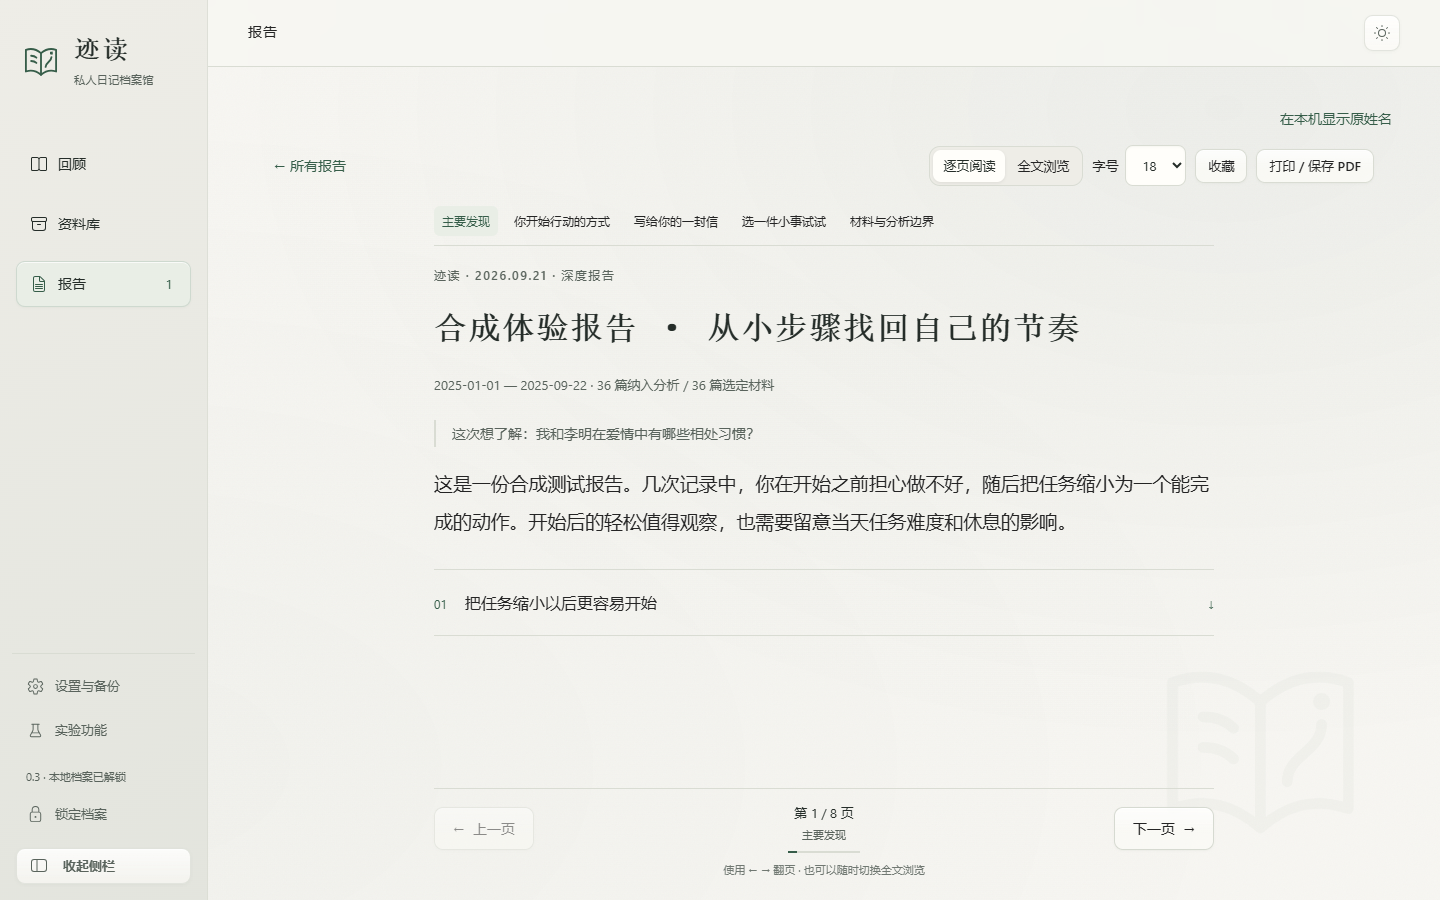
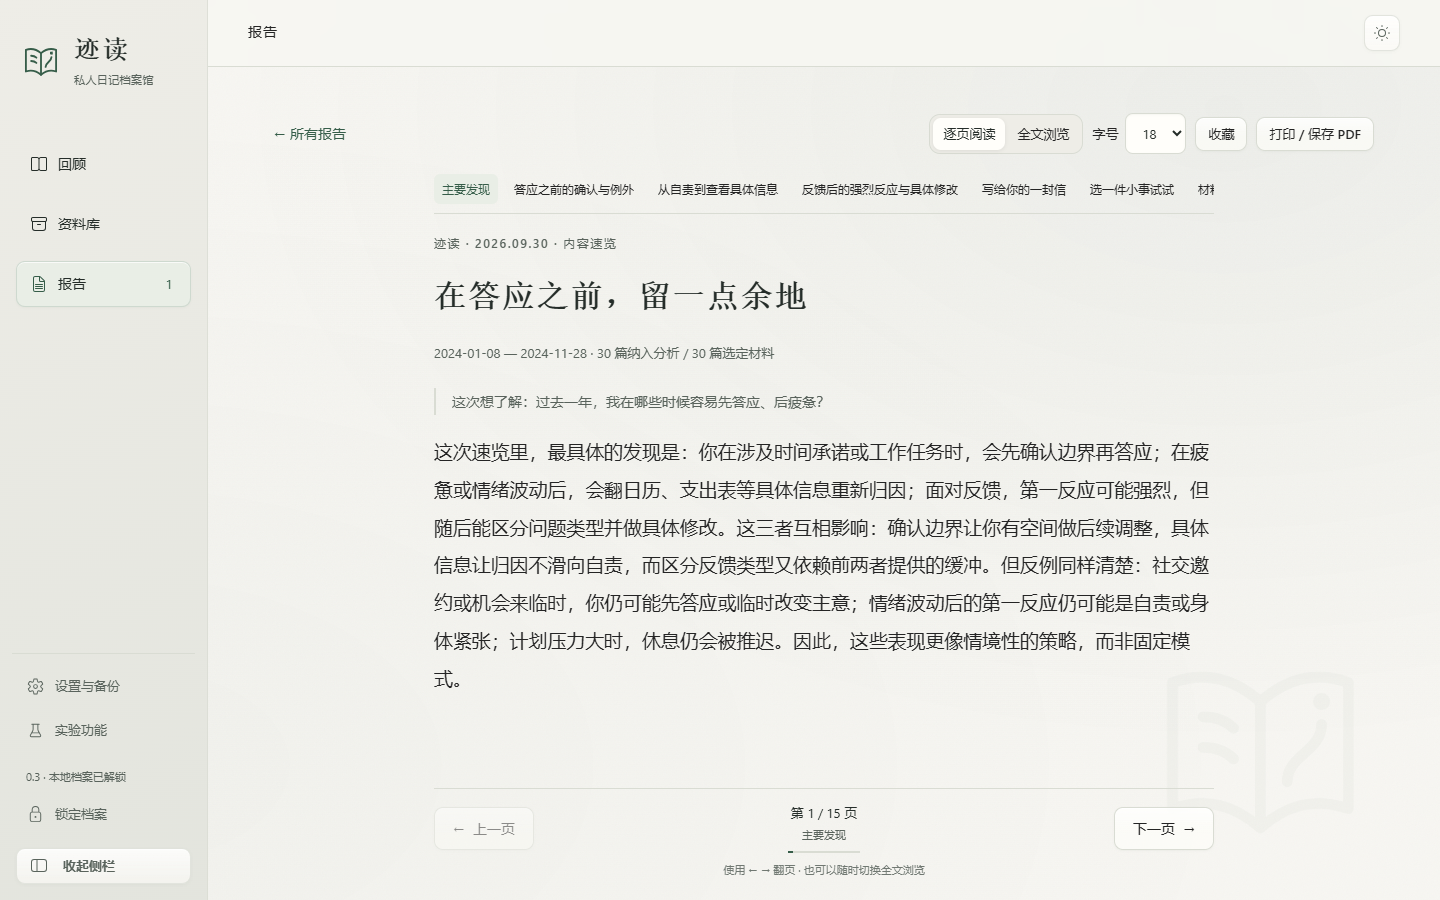
Refine typography and replace demo report preview

diff --git a/site.css b/site.css
@@ -12,6 +12,7 @@
   --green: #315c47;
   --green-dark: #18392d;
   --content: 1160px;
+  --display-font: "STSong", "Songti SC", "SimSun", serif;
 }
 
 * { box-sizing: border-box; }
@@ -44,7 +45,7 @@ h1, h2, h3 { text-wrap: balance; }
 .hero-copy { position: relative; z-index: 1; text-align: center; }
 .eyebrow, .section-index { color: var(--green); font-size: 12px; font-weight: 680; letter-spacing: .12em; }
 .eyebrow { margin-bottom: 21px; }
-.hero h1 { margin-bottom: 24px; font-size: clamp(60px, 7vw, 106px); font-weight: 680; line-height: 1.13; letter-spacing: -.065em; }
+.hero h1 { margin-bottom: 25px; font-family: var(--display-font); font-size: clamp(60px, 6.7vw, 98px); font-weight: 500; line-height: 1.27; letter-spacing: -.022em; }
 .hero h1 span { color: var(--green); }
 .hero-summary { max-width: 32ch; margin: 0 auto 29px; color: var(--muted); font-size: clamp(17px, 1.55vw, 21px); line-height: 1.7; text-wrap: pretty; }
 .hero-actions, .download-actions { display: flex; flex-wrap: wrap; align-items: center; gap: 22px; }
@@ -72,11 +73,12 @@ h1, h2, h3 { text-wrap: balance; }
 .statement-layout { display: grid; grid-template-columns: .75fr 1.25fr; gap: 70px; }
 .section-index { margin-bottom: 24px; }
 .statement-layout .section-index { padding-top: 15px; }
-.statement-layout h2, .journey-section h2, .preview-copy h2, .privacy-section h2, .availability-layout h2, .download-layout h2 { margin-bottom: 25px; font-size: clamp(38px, 4.5vw, 65px); font-weight: 660; line-height: 1.25; letter-spacing: -.054em; }
+.statement-layout h2, .journey-section h2, .preview-copy h2, .privacy-section h2, .availability-layout h2, .download-layout h2 { margin-bottom: 25px; font-family: var(--display-font); font-size: clamp(38px, 4.25vw, 60px); font-weight: 500; line-height: 1.35; letter-spacing: -.018em; }
+.journey-section h2, .preview-copy h2, .availability-layout h2 { font-family: "Segoe UI Variable", "Segoe UI", "PingFang SC", "Microsoft YaHei UI", sans-serif; font-weight: 650; line-height: 1.28; letter-spacing: -.045em; }
 .statement-layout p:last-child { max-width: 35ch; margin-bottom: 0; color: var(--muted); font-size: 19px; line-height: 1.85; }
 
 .journey-section { display: grid; grid-template-columns: 1fr 1fr; gap: 92px; padding-top: 132px; padding-bottom: 130px; }
-.journey-section h2 { max-width: 12ch; }
+.journey-section h2 { max-width: 22ch; }
 .journey-list { padding: 0; margin: 0; list-style: none; border-top: 1px solid var(--line); }
 .journey-list li { display: grid; grid-template-columns: 56px 1fr; gap: 12px; padding: 28px 0; border-bottom: 1px solid var(--line); }
 .journey-list li > span { padding-top: 5px; color: var(--green); font-size: 13px; font-variant-numeric: tabular-nums; }
@@ -123,7 +125,7 @@ h1, h2, h3 { text-wrap: balance; }
 .download-hash code { display: block; margin-top: 7px; color: #354c3d; font-family: ui-monospace, Consolas, monospace; font-size: 12px; }
 
 .faq-section { display: grid; grid-template-columns: .8fr 1.2fr; gap: 70px; padding-top: 95px; padding-bottom: 115px; }
-.faq-heading h2 { margin-bottom: 0; font-size: clamp(32px, 3.4vw, 46px); font-weight: 650; letter-spacing: -.045em; }
+.faq-heading h2 { margin-bottom: 0; font-size: clamp(32px, 3.4vw, 46px); font-weight: 650; line-height: 1.3; letter-spacing: -.04em; }
 .faq-list { border-top: 1px solid var(--line); }
 .faq-list details { border-bottom: 1px solid var(--line); }
 .faq-list summary { position: relative; padding: 19px 32px 19px 0; font-size: 16px; font-weight: 630; cursor: pointer; list-style: none; }
@@ -150,7 +152,7 @@ h1, h2, h3 { text-wrap: balance; }
   .mobile-menu nav a { padding: 10px 12px; font-size: 14px; text-decoration: none; }
   .mobile-menu nav a:hover { background: #eff3ed; }
   .hero { padding-top: 83px; }
-  .hero h1 { font-size: clamp(54px, 9vw, 78px); }
+  .hero h1 { font-size: clamp(54px, 8vw, 74px); }
   .statement-layout, .journey-section, .privacy-layout, .availability-layout, .faq-section { gap: 45px; }
   .preview-layout { grid-template-columns: 1fr; gap: 38px; }
   .preview-copy { max-width: 650px; }
@@ -161,7 +163,7 @@ h1, h2, h3 { text-wrap: balance; }
   .content-width, .nav-inner { width: min(100% - 36px, var(--content)); }
   .nav-inner { min-height: 58px; }
   .hero { padding-top: 76px; }
-  .hero h1 { font-size: clamp(46px, 12vw, 67px); line-height: 1.18; }
+  .hero h1 { font-size: clamp(46px, 11vw, 60px); line-height: 1.28; }
   .hero-summary { max-width: 29ch; font-size: 16px; }
   .hero-actions { gap: 15px; }
   .hero-availability { padding-inline: 12px; font-size: 12px; }

diff --git a/index.html b/index.html
@@ -54,9 +54,9 @@
         <figure class="hero-visual content-width">
           <div class="app-window app-window-main">
             <div class="window-bar" aria-hidden="true"><span class="window-app"><img src="./assets/jidu-logo.svg" width="16" height="16" alt="" /> 迹读</span><span class="window-controls">−　□　×</span></div>
-            <img src="./assets/windows-report.png" width="1440" height="900" fetchpriority="high" alt="迹读 Windows 桌面版报告阅读界面，展示合成材料生成的报告、章节目录和翻页操作" />
+            <img src="./assets/windows-report.png" width="1440" height="900" fetchpriority="high" alt="迹读 Windows 桌面版的示例报告，展示生活回顾、章节目录和翻页操作" />
           </div>
-          <figcaption>Windows 桌面版界面 · 内容使用合成材料演示，不含真实用户日记</figcaption>
+          <figcaption>Windows 桌面版 · 示例报告</figcaption>
         </figure>
       </section>
 
@@ -88,14 +88,14 @@
             <p class="section-index">03 / Windows 桌面版</p>
             <h2 id="preview-title">让阅读，<br />回到阅读本身。</h2>
             <p>在电脑上导入、分析和阅读。报告可以逐页查看，也能切换为全文浏览；重要判断附带原文线索，而不是只留下一个结论。</p>
-            <p class="preview-footnote">截图为合成档案演示。报告深度取决于实际材料。</p>
+            <p class="preview-footnote">每份回顾的主题与深度，取决于你提供的记录。</p>
           </div>
           <figure class="preview-visual">
             <div class="app-window app-window-secondary">
               <div class="window-bar" aria-hidden="true"><span class="window-app"><img src="./assets/jidu-logo.svg" width="16" height="16" alt="" /> 迹读</span><span class="window-controls">−　□　×</span></div>
               <img src="./assets/windows-home.png" width="1440" height="900" alt="迹读 Windows 桌面版回顾首页，展示导入已有日记的入口" />
             </div>
-            <figcaption>Windows 桌面版回顾首页 · 合成档案演示</figcaption>
+            <figcaption>Windows 桌面版 · 回顾首页</figcaption>
           </figure>
         </div>
       </section>
